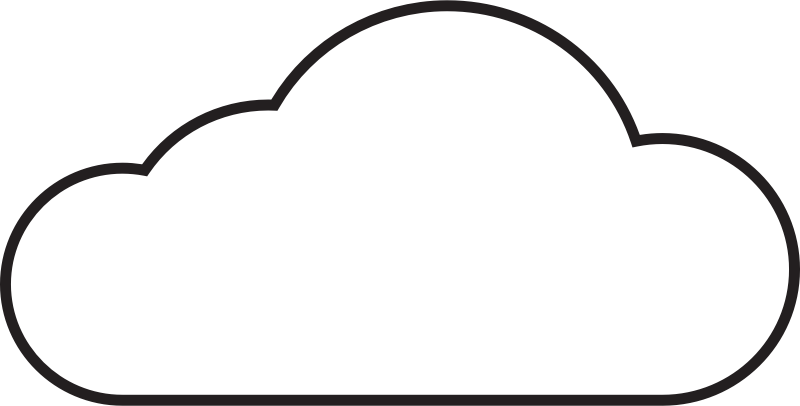
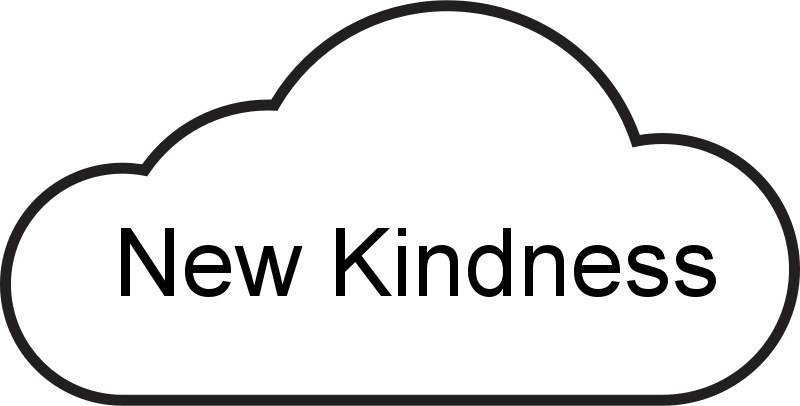
Added Text to clouds

Changed region(s): [[0.4062, 0.5616, 0.9062, 0.7389], [0.125, 0.5616, 0.375, 0.7389]]

diff --git a/home_page.html b/home_page.html
@@ -45,7 +45,7 @@
 		<img id='wobble' src='images/Wobble.png'>
 		<img id='smile' src='images/Smile.png'>
 		<input type='image' src="images/Cloud_Tell_More.png" name="saveForm" class="btnTxt submit" id="tell_more" />
-		<input type='image' src="images/Cloud_Tell_More.png" name="saveForm" class="btnTxt submit" id="new_kindness" />
+		<input type='image' src="images/Cloud_New_Kindness.png" name="saveForm" class="btnTxt submit" id="new_kindness" />
 			<div>
 			<p id ='Call_Friend' class="RAK_Short">Call a friend</p>
 			<p id ='Call_Friend_Long' class="RAK_Long">Call an old pal you haven't spoken to for a while. Think about something you're grateful to them for. Maybe they picked you up in the rain once? Maybe they got you coffee once? Bring it up and hear the surprise in their voice</p>

diff --git a/random_number.js b/random_number.js
@@ -12,16 +12,18 @@ $(document).ready(function() {
 function show_kindness() {
 	var rand_no = Math.floor((Math.random() * 15));
 	$(kindnesses[rand_no]['short']).show();
-    $(kindnesses[rand_no]['long']).show();
-	$('#brain_button').hide();
+	$(kindnesses[rand_no]['long']).show();
+    $('#brain_button').hide();
 	$('#wobble').hide();
 	$('#smile').show();
     $('#tell_more').show();
     $('#new_kindness').show();
+        
 };
 
 function new_kindness() {
     $('.RAK_Short').hide();
+    $('.RAK_Long').hide();
     var rand_no = Math.floor((Math.random() * 15));
     $(kindnesses[rand_no]['short']).show();
     $(kindnesses[rand_no]['long']).show();
